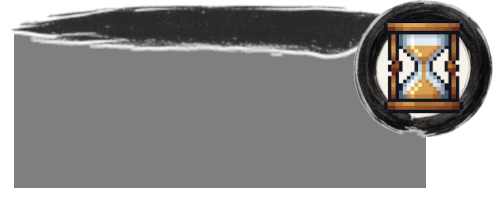
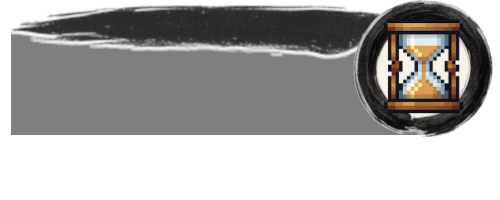
ui addded

Changed region(s): [[0.0, 0.15, 0.87, 0.96]]

diff --git a/docs/style.css b/docs/style.css
@@ -449,6 +449,24 @@ button:hover,
 #scoreDisplay {
     top: 8px;
     left: 12px;
+    color: #fff;
+    background: url('assets/UI/UI/score_UI.png') center center no-repeat;
+    background-size: contain;
+    border: none;
+    border-radius: 0;
+    font-weight: 700;
+    font-size: 1em;
+    padding: 0.5em 1em;
+    box-shadow: none;
+    min-width: 200px;
+    min-height: 80px;
+    display: flex;
+    align-items: center;
+    justify-content: center;
+    text-shadow: 2px 2px 4px rgba(0, 0, 0, 0.8);
+    text-align: center;
+    position: absolute;
+    z-index: 10;
 }
 
 #livesDisplay {
@@ -476,26 +494,28 @@ button:hover,
 }
 
 #timerDisplay {
-    top: 8px;
-    right: 12px;
+    top: 0px;
+    right: 2px;
     color: #fff;
     background: url('assets/UI/UI/timer_UI.png') center center no-repeat;
     background-size: contain;
     border: none;
     border-radius: 0;
     font-weight: 700;
-    font-size: 0.95em;
+    font-size: 0.85em;
     padding: 0.5em 1em;
     box-shadow: none;
-    min-width: 150px;
-    min-height: 60px;
+    min-width: 200px;
+    min-height: 80px;
     display: flex;
-    align-items: center;
-    justify-content: center;
+    align-items: flex-start;
+    justify-content: flex-start;
     text-shadow: 2px 2px 4px rgba(0, 0, 0, 0.8);
-    text-align: center;
+    text-align: left;
     position: absolute;
     z-index: 10;
+    padding-left: 28px;
+    padding-top: 40px;
 }
 
 #timer,
@@ -508,34 +528,30 @@ button:hover,
 /* ===== ヘルプ・説明 ===== */
 #quickHelp {
     position: absolute;
-    bottom: 12px;
-    right: 12px;
-    min-width: 60px;
-    max-width: 120px;
-    font-size: 0.92em;
-    padding: 0.18em 0.5em;
+    bottom: 350px;
+    right: -180px;
+    min-width: 150px;
+    min-height: 120px;
+    font-size: 0.85em;
+    padding: 20px 15px;
     z-index: 10;
-    background: rgba(42, 42, 42, 0.95);
-    border: 3px solid #C1272D;
-    border-radius: 16px;
-    color: #fff;
-    box-shadow: 0 4px 24px rgba(0, 0, 0, 0.4), 0 2px 12px rgba(0, 0, 0, 0.2);
-    text-align: left;
+    background: url('assets/UI/UI/scroll.png') center center no-repeat;
+    background-size: 100% 100%;
+    border: none;
+    border-radius: 0;
+    color: #2c1810;
+    box-shadow: none;
+    text-align: center;
     font-family: 'Kiwi Maru', 'Noto Serif JP', serif;
     pointer-events: none;
     user-select: none;
-}
-
-#helpPanel,
-#quickHelp {
-    background: #2a2a2a;
-    color: #fff;
-    border: 2px solid #C1272D;
-    border-radius: 12px;
-    font-size: 1em;
-    font-family: 'Noto Sans JP', 'Yu Gothic', 'Meiryo', sans-serif;
-    box-shadow: 0 2px 8px rgba(0, 0, 0, 0.3);
-    padding: 1em 1.5em;
+    display: flex;
+    flex-direction: column;
+    align-items: center;
+    justify-content: center;
+    text-shadow: 1px 1px 2px rgba(255, 255, 255, 0.7);
+    font-weight: 700;
+    line-height: 1.2;
 }
 
 /* ヘルプモーダル */

diff --git a/docs/core/Timer.js b/docs/core/Timer.js
@@ -39,9 +39,7 @@
 
     getFormattedTime() {
         const remaining = this.update();
-        const minutes = String(Math.floor(remaining / 60)).padStart(2, '0');
-        const seconds = String(remaining % 60).padStart(2, '0');
-        return `${minutes}:${seconds}`;
+        return `${remaining}`;
     }
 
     isTimeUp() {
